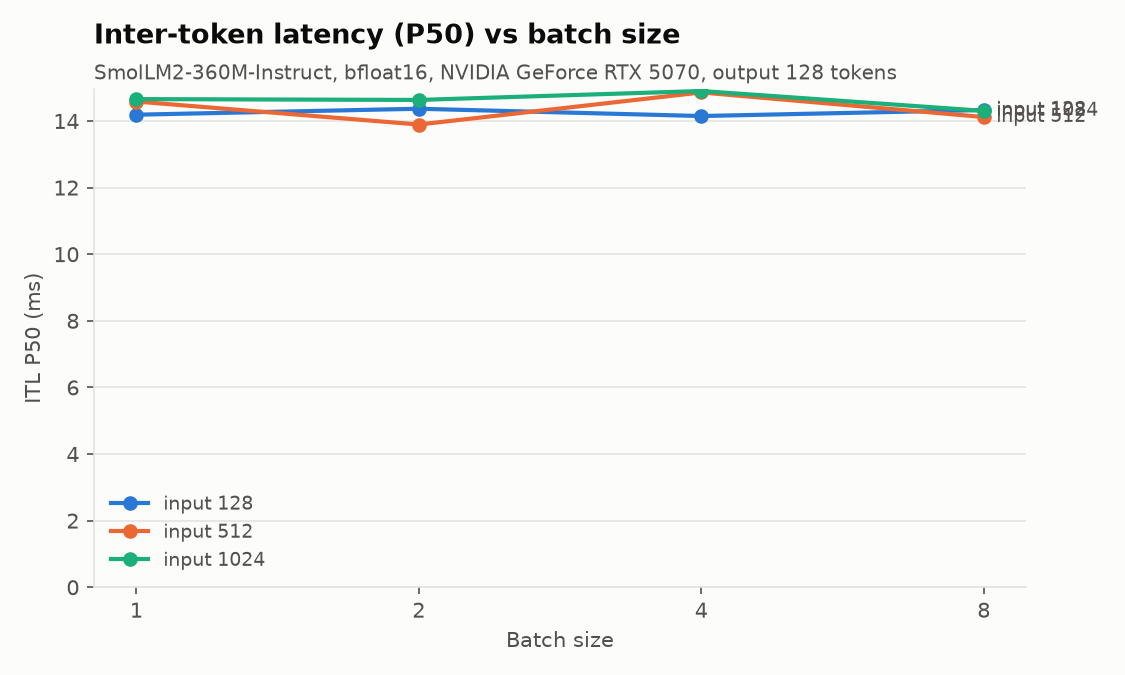
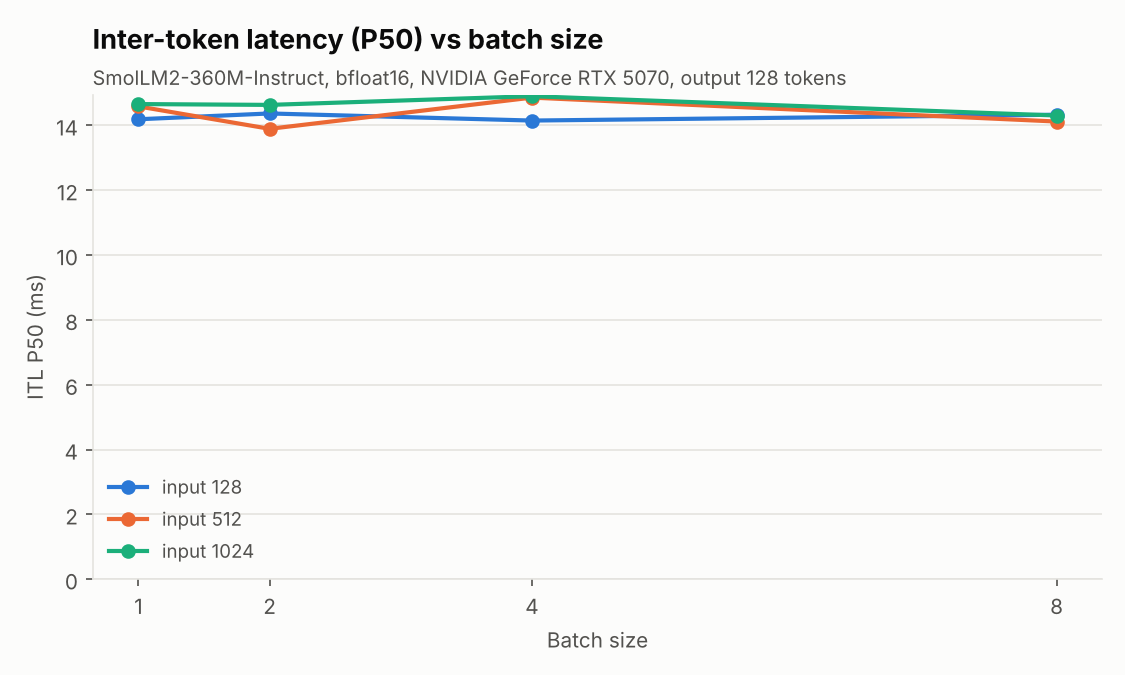
Write README results from the 5070 sweep and regression study
Results table, launch-bound finding backed by traces, the host-sync case
study (only ITL P99 and the trace catch it), the EOS reference bug, a
DeepInfer mapping table and limitations. Figures regenerated from the
published records: linear batch axis, no overlapping end labels, shared
histogram bins.

Claude-Session: https://claude.ai/code/session_01GCgimVQNygShu8MfHsWbpB

diff --git a/src/miniinferbench/plots.py b/src/miniinferbench/plots.py
@@ -66,8 +66,6 @@ def _lines(
     label: Callable[[int], str],
 ) -> None:
     chosen = [p for p in points if all(p["config"][k] == v for k, v in fixed.items())]
-    if x_key == "batch_size":
-        ax.set_xscale("log", base=2)  # batch sizes double: 1, 2, 4, 8
     for color, value in zip(
         SERIES, sorted({p["config"][series_key] for p in chosen}), strict=False
     ):
@@ -78,16 +76,6 @@ def _lines(
         xs = [p["config"][x_key] for p in rows]
         ys = [y(p) for p in rows]
         ax.plot(xs, ys, color=color, linewidth=2, marker="o", markersize=6, label=label(value))
-        if xs:
-            ax.annotate(
-                label(value),
-                (xs[-1], ys[-1]),
-                xytext=(6, 0),
-                textcoords="offset points",
-                va="center",
-                fontsize=9,
-                color=INK_SECONDARY,
-            )
     ticks = sorted({p["config"][x_key] for p in chosen})
     ax.set_xticks(ticks, [str(t) for t in ticks])
     ax.minorticks_off()
@@ -188,12 +176,15 @@ def plot_all(results: Path, tag: str, out_dir: Path, output_len: int = 128) -> l
         min(picks, key=lambda p: (p["config"]["batch_size"], p["config"]["input_len"])),
         max(picks, key=lambda p: (p["config"]["batch_size"], p["config"]["input_len"])),
     ]
-    for color, p in zip(SERIES, picks, strict=False):
-        samples = [g for run in p["raw"]["itl_ms"] for g in run]
+    all_samples = [[g for run in p["raw"]["itl_ms"] for g in run] for p in picks]
+    lo = int(min(min(s) for s in all_samples))
+    hi = max(max(s) for s in all_samples)
+    bins = [lo + i * 0.5 for i in range(int((hi - lo) / 0.5) + 2)]  # shared 0.5 ms bins
+    for color, p, samples in zip(SERIES, picks, all_samples, strict=False):
         c = p["config"]
         ax.hist(
             samples,
-            bins=40,
+            bins=bins,
             color=color,
             alpha=0.75,
             label=f"batch {c['batch_size']}, input {c['input_len']} (n={len(samples)})",

diff --git a/README.md b/README.md
@@ -2,72 +2,186 @@
 
 A small, reproducible benchmark harness for LLM inference on a single GPU.
 
-> **Status: work in progress (v0.1 under development).** No benchmark results are
-> published yet. Every number that appears in this repository will come from a
-> recorded run whose configuration and environment are stored next to it.
+It drives a Hugging Face model with a hand-written prefill + decode loop, times
+every step, checks the output token by token against `generate()`, and writes
+one classified record per run (config, environment, raw samples, evidence).
+Every number below comes from a record in [`results-published/`](results-published/).
 
-## Goals
+## Results: SmolLM2-360M on an RTX 5070
 
-- Measure prefill and decode separately with a hand-written generation loop
-  (not `model.generate()`), so every step can be timed.
-- Report each metric with an explicit measurement boundary (TTFT, ITL, TPOT,
-  P50/P95/P99, prefill/decode throughput, peak memory).
-- Treat every run as a reproducible task: saved config, environment snapshot,
-  correctness check, and a status that separates program errors, environment
-  failures, and unstable measurements.
-- Back performance claims with profiler traces, not guesses.
+Setup: `HuggingFaceTB/SmolLM2-360M-Instruct`, bfloat16, greedy, synthetic
+prompts (seeded, fixed length), EOS ignored so every run does the same work.
+RTX 5070 12 GB (SM120), WSL2, torch 2.11.0+cu128, transformers 5.22.1.
+2 warmup runs + 5 measured runs per point; all records produced at commit
+`00da9fe` with a clean tree.
 
-## Setup
+Sweep `5070-360m-v3`: batch {1,2,4,8} x input {128,512,1024} x output {32,128,256}.
+All 36 points match `generate()` exactly; 20 are `ok`, 16 `unstable`
+(see [Limitations](#limitations)). Full table: `mib table --tag 5070-360m-v3
+--results results-published/5070-360m-v3.jsonl`.
+
+| Batch | Input | Output | Status | TTFT (ms) | ITL P50 (ms) | ITL P99 (ms) | Decode tok/s | Peak mem |
+| --- | --- | --- | --- | --- | --- | --- | --- | --- |
+| 1 | 512 | 128 | ok | 15.50 | 14.58 | 16.94 | 69.65 | 744 MiB |
+| 2 | 512 | 128 | ok | 23.67 | 13.89 | 42.00 | 140.27 | 776 MiB |
+| 4 | 512 | 128 | ok | 35.46 | 14.86 | 30.66 | 272.14 | 838 MiB |
+| 8 | 512 | 128 | unstable | 61.81 | 14.12 | 26.95 | 568.62 | 965 MiB |
+| 8 | 1024 | 256 | ok | 135.97 | 14.39 | 17.40 | 561.67 | 1215 MiB |
+
+![Decode throughput vs batch size](docs/figures/throughput_vs_batch.png)
+
+**Finding 1: decode time is set by the CPU launching kernels, not by the GPU.**
+
+- ITL P50 stays between 13.9 and 14.9 ms at every point with output 128 or
+  256, whatever the batch size or input length, so decode throughput grows almost linearly with batch size
+  (about 70 → 140 → 272 → 560 tokens/s).
+- Profiler traces (`results-published/traces/`) show about 1,300 kernel
+  launches per decode step. The GPU is busy for only 3.6 ms (batch 1) to 4.5 ms
+  (batch 8) of a ~14.5 ms step.
+- Prefill of 128 tokens at batch 1 (TTFT 14.7 ms) costs about the same as one
+  decode step: both are dominated by the same per-layer launch sequence.
+
+The obvious next experiment is to cut launches with a static KV cache plus
+CUDA Graphs or `torch.compile(mode="reduce-overhead")`. It is not done yet.
+
+![Prefill vs one decode step](docs/figures/prefill_vs_decode.png)
+
+More figures: [latency vs batch](docs/figures/latency_vs_batch.png),
+[prefill vs input length](docs/figures/prefill_vs_input.png),
+[ITL distribution](docs/figures/itl_distribution.png),
+[memory: measured vs estimated](docs/figures/memory.png).
+
+## Case study: can the harness catch a regression?
+
+Two slowdowns are built in behind a config flag; both keep the output
+identical, so only timing and traces can reveal them. Batch 4, input 512,
+output 128 ([`results-published/regression.jsonl`](results-published/regression.jsonl)).
+
+`mib compare` judges each change against a noise band of max(2%, 3 x the
+larger end-to-end CV of the two runs):
+
+| Metric | Baseline | `host_sync_each_step` | `no_kv_cache` |
+| --- | --- | --- | --- |
+| TTFT mean (ms) | 34.24 | 39.21 (+14.5%, band ±10.7%) | 35.23 (within noise) |
+| ITL P50 (ms) | 14.82 | 14.50 (within noise) | 40.65 (+174%) |
+| ITL P99 (ms) | 24.73 | **42.18 (+70.5%)** | 56.47 (+128%) |
+| E2E mean (ms) | 1948.6 | 1961.4 (within noise) | 5368.3 (+176%) |
+| Blocking host calls in trace | 2 | **256** | not traced |
+
+- **No KV cache** recomputes the whole sequence every step: every decode metric
+  moves, prefill does not. Easy to catch.
+- **A host sync each step** (`token.cpu()`, a common bug when checking for EOS)
+  does not move the median at all. Because decode is launch-bound, the GPU has
+  usually finished by the time the CPU asks, so the sync is free most of the
+  time and stalls only occasionally. It shows up only in the tail (ITL P99) and
+  in the trace (blocking host calls 2 → 256, same kernels, same GPU busy time).
+  A dashboard that tracks only P50 or end-to-end time would miss it. The TTFT
+  change is outside its band, but this regression only touches the decode loop,
+  so it is most likely noise.
+
+## The bug the harness caught in itself
+
+The first sweep reported 21 of 36 points as `wrong_result`. The correctness
+check now records, for each diverging sequence, the logit margin between the
+two tokens on their shared prefix. That evidence showed:
+
+- our loop always picked token 2 (`<|im_end|>`), which the model ranked
+  about 7 logits above the reference's choice;
+- the divergence was identical in float32, so it was not a precision issue.
+
+The reference was wrong: `GenerationConfig(eos_token_id=None, min_new_tokens=n)`
+does not disable EOS. It falls back to the model's EOS, and `min_new_tokens`
+then masks it, forcing the runner-up token. Fixed with `eos_token_id=[]`, with
+a regression test that fails on the old config.
+
+## How it works
+
+```
+config ──> preflight ──> load model ──> correctness check ──> warmup ──> measure
+                                          (vs generate())                  │
+record (status, manifest, raw samples, evidence) <── stability check <─────┘
+```
+
+- **Two clocks.** CUDA events give per-step gaps on the GPU timeline (TTFT,
+  ITL); a synchronized wall clock gives end-to-end time. `scripts/timing_pitfall.py`
+  shows why: without synchronization a 41 ms GPU workload "takes" 0.18 ms.
+- **Correctness first.** A run that does not match `generate()` is never timed.
+  Divergences are classified as exact, near tie (top-two tokens within a
+  configurable logit tolerance) or mismatch, and the margin is stored.
+- **One status per run.** Failures are classified rather than crashing the sweep.
+- **Comparable by construction.** Each record stores a fingerprint of the input
+  tokens; `mib compare` refuses runs with different inputs.
+- **Resumable sweeps.** Points are keyed by tag; a rerun skips finished points.
+  Points whose memory estimate exceeds 90% of free memory are recorded as
+  `skipped` rather than attempted.
+- **Profiling is a separate pass.** `mib trace` measures its own overhead
+  (traced step span was 1.4–1.8x the untraced ITL), so traces are used for
+  proportions and kernel breakdowns, not absolute times.
+
+| Status | Meaning |
+| --- | --- |
+| `ok` | Output matches `generate()`, end-to-end CV within threshold (0.05) |
+| `wrong_result` | Output differs from `generate()`; timing is skipped |
+| `unstable` | Correct, but end-to-end time varies more than the CV threshold |
+| `env_error` | Out of memory, no CUDA, kernel/driver mismatch, download or IO failure |
+| `program_error` | Any other exception, with its traceback stored |
+| `skipped` | Memory estimate exceeds the safe budget |
+
+## Usage
 
 Requires Linux or WSL2, an NVIDIA GPU, and [uv](https://docs.astral.sh/uv/).
 
 ```bash
 uv venv --python 3.12
-uv pip install -e ".[dev]"     # torch comes from the CUDA 12.8 wheel index
-python scripts/check_env.py     # prints GPU, CUDA, and library versions
-pytest -q
+uv pip install -e ".[dev]"      # torch comes from the CUDA 12.8 wheel index
+python scripts/check_env.py      # GPU, CUDA, and library versions
+
+mib run --config configs/smollm2_360m_smoke.json     # one run -> results/runs.jsonl
+mib rerun <run_id>                                    # same config, new record
+mib compare <baseline_run_id> <candidate_run_id>      # changes vs noise band
+mib sweep --config configs/smollm2_360m_sweep.json --tag my-sweep
+mib table --tag my-sweep && mib plot --tag my-sweep
+mib trace --config configs/regression_baseline.json --out traces/baseline
 ```
 
-## Usage
+Development checks (CI runs the same on CPU, with a tiny random Llama; GPU-only
+tests are marked `gpu`):
 
 ```bash
-mib run --config configs/smollm2_360m_smoke.json   # appends a record to results/runs.jsonl
-mib rerun <run_id>                                  # repeat a run with its exact config
-mib compare <baseline_run_id> <candidate_run_id>    # changes judged against run-to-run noise
-python scripts/timing_pitfall.py                    # why GPU timing needs synchronization
+ruff check . && ruff format --check . && mypy && pytest -q
 ```
 
-Every run ends with exactly one status:
+## Limitations
 
-| Status | Meaning |
-| --- | --- |
-| `ok` | Finished, output matches `generate()`, repeated measurements stable |
-| `wrong_result` | Output differs from `generate()`; timing is skipped |
-| `unstable` | Correct, but end-to-end time varies more than the CV threshold |
-| `env_error` | Out of memory, no CUDA, kernel/driver mismatch, download or IO failure |
-| `program_error` | Any other exception, with its traceback stored |
-
-Each record stores the config, git commit and dirty flag, library and GPU
-versions, the model revision, a fingerprint of the input tokens, and every raw
-timing sample.
-
-## Development checks
-
-```bash
-ruff check . && ruff format --check .
-mypy
-pytest -q
-```
-
-CI runs the same checks on CPU; tests that need a GPU are marked `gpu` and
-skipped automatically when no CUDA device is present.
+- **Noise.** 16 of 36 sweep points exceed the 0.05 CV threshold, mostly short
+  runs (output 32). The first sweep, on the same machine, had 3. During the
+  final sweep other long-running processes were using several GB of the WSL
+  VM's memory; host-side interference is the likely cause but is not proven.
+  Unstable points are kept and labelled, not dropped. GPU clocks stayed at
+  ~2880 MHz and 46–57 °C, so thermal throttling is ruled out.
+- **One model, one GPU, one framework.** Results describe HF Transformers eager
+  mode on a small model. They say nothing about vLLM, larger models, or other
+  GPUs.
+- **Synthetic prompts, equal length, no padding.** Real traffic is not like this.
+- **Correctness is checked against `generate()`**, which is itself code with
+  configuration pitfalls (see above). Matching it proves agreement, not truth.
 
 ## Methodology reference
 
-The measurement methodology (warmup isolation, steady-state windows, separate
-profiling passes, raw-quantity result logging) is adapted from the benchmark in
-[DeepInfer](https://github.com/deepseek-ai/DeepInfer). The code here is an
-independent implementation for a single consumer GPU and small dense models;
-results are not comparable to DeepInfer's published numbers.
+The measurement methodology (separate prefill and decode, warmup isolation,
+per-step timestamps, a separate profiling pass, raw-quantity result logging)
+is adapted from the benchmark in [DeepInfer](https://github.com/deepseek-ai/DeepInfer).
+DeepInfer's engine targets SM100 and Ascend, so it does not run on this GPU;
+the code here is an independent implementation, and its numbers are not
+comparable to DeepInfer's.
+
+| DeepInfer idea | Here |
+| --- | --- |
+| Prefill and decode timed separately | TTFT vs ITL from per-step CUDA events |
+| Warmup before measurement | `warmup_runs`, excluded from records |
+| N+1 timestamps give N intervals | `EventTimeline.mark()` per token |
+| Steps/s vs tokens/s kept apart | `decode_steps_per_s` and `decode_tokens_per_s` |
+| Profiler in its own pass | `mib trace`, with measured overhead |
+| Raw quantities in JSONL | `raw` field with every sample |
 
 See [docs/PLAN.md](docs/PLAN.md) for the roadmap.
